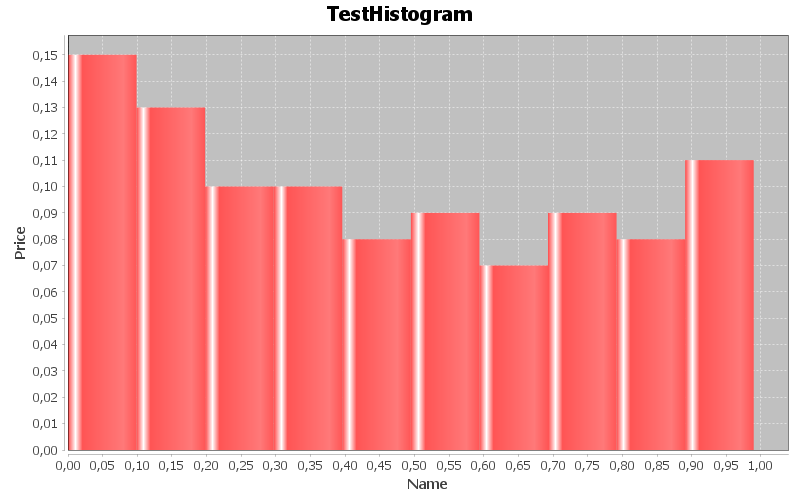
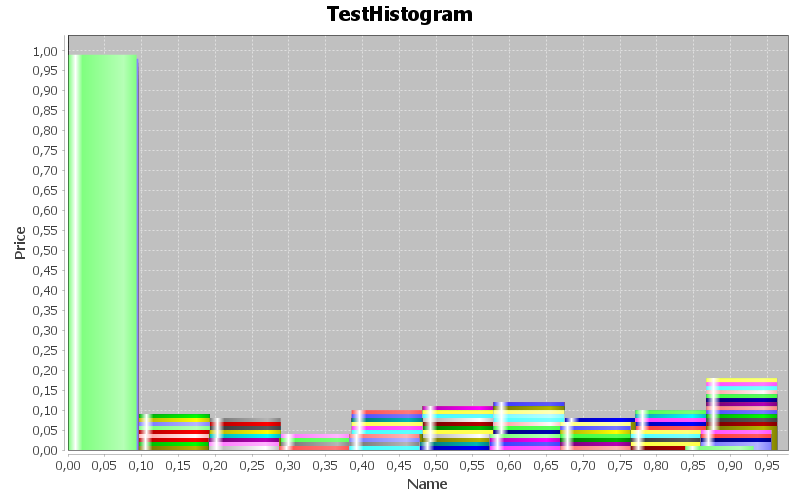
Added class to paint and save histogram to ./src directory [Working in testing mode]

diff --git a/src/main/java/histogramtools/HistogramTools.java b/src/main/java/histogramtools/HistogramTools.java
@@ -8,31 +8,30 @@ import org.jfree.chart.plot.PlotOrientation;
 
 public class HistogramTools {
     public static void main(String ... args) {
-        CreateHistogram("TestHistogram.png", "Name", "Price");
+        CreateHistogram("TestHistogram.png", "Name", "Price", 800, 500);
     }
 
 
-    public static void CreateHistogram(String name, String XAxis, String YAxis) {
+    public static void CreateHistogram(String name, String XAxis, String YAxis, int width, int height) {
         double[] value = new double[100];
         Random generator = new Random();
+        HistogramDataset dataset = new HistogramDataset();
+        String plotTitle = name.split("\\.")[0];
+        PlotOrientation orientation = PlotOrientation.VERTICAL;
+        dataset.setType(HistogramType.RELATIVE_FREQUENCY);
+        boolean show = false;
+        boolean toolTips = false;
+        boolean urls = false;
+        JFreeChart chart = ChartFactory.createHistogram(plotTitle, XAxis, YAxis,
+                dataset, orientation, show, toolTips, urls);
 
         for (int i=1; i < 100; i++) {
             value[i] = generator.nextDouble();
             int number = 10;
-            HistogramDataset dataset = new HistogramDataset();
-            dataset.setType(HistogramType.RELATIVE_FREQUENCY);
-            dataset.addSeries("Histogram",value,number);
-            String plotTitle = name.split("\\.")[0];
-            PlotOrientation orientation = PlotOrientation.VERTICAL;
-            boolean show = false;
-            boolean toolTips = false;
-            boolean urls = false;
-            JFreeChart chart = ChartFactory.createHistogram(plotTitle, XAxis, YAxis,
-                    dataset, orientation, show, toolTips, urls);
-            int width = 800;
-            int height = 500;
-            SaveHistogram(chart, name, width, height);
+            dataset.addSeries("Histogram", value, number);
         }
+
+        SaveHistogram(chart, name, width, height);
     }
 
     public static void SaveHistogram(JFreeChart chart, String name, int width, int height) {
@@ -41,5 +40,6 @@ public class HistogramTools {
         } catch (IOException e) {
             e.printStackTrace();
         }
+        System.out.print("Histogram saved successfully!");
     }
 }
